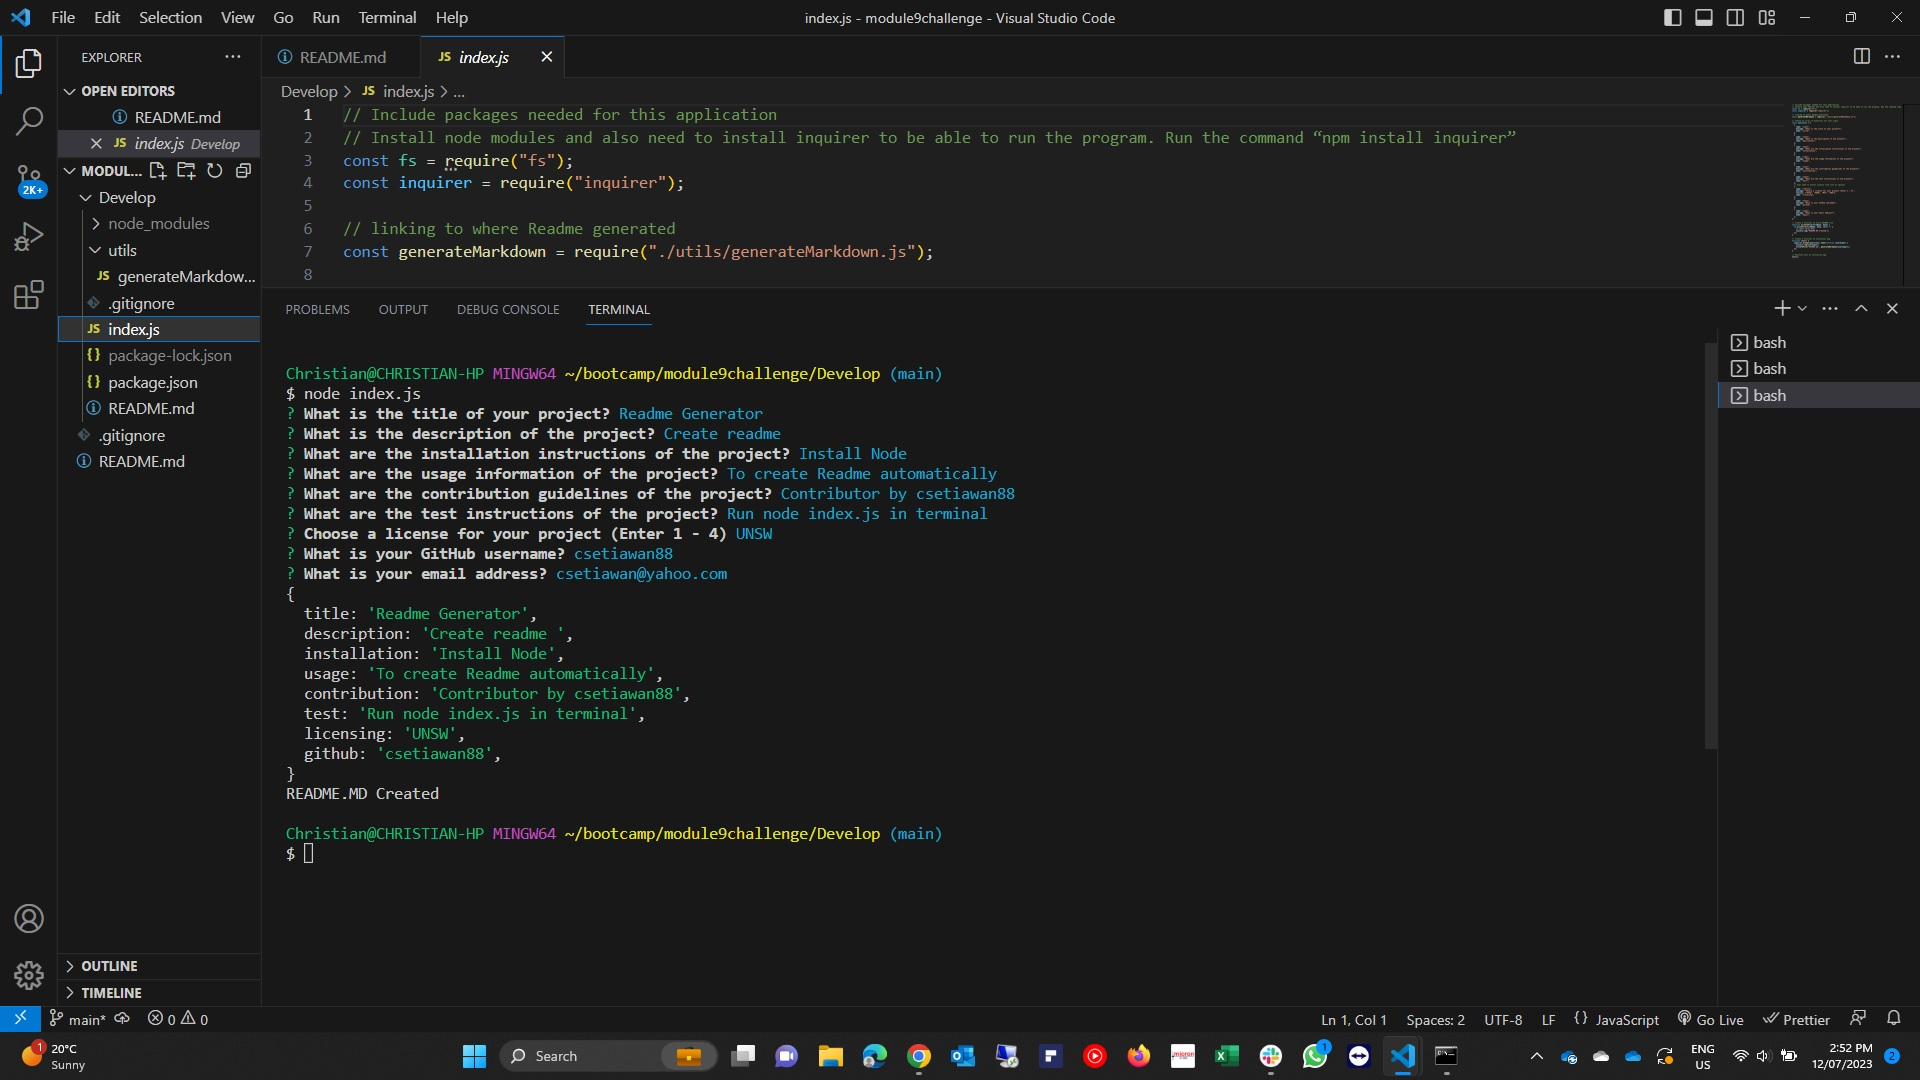
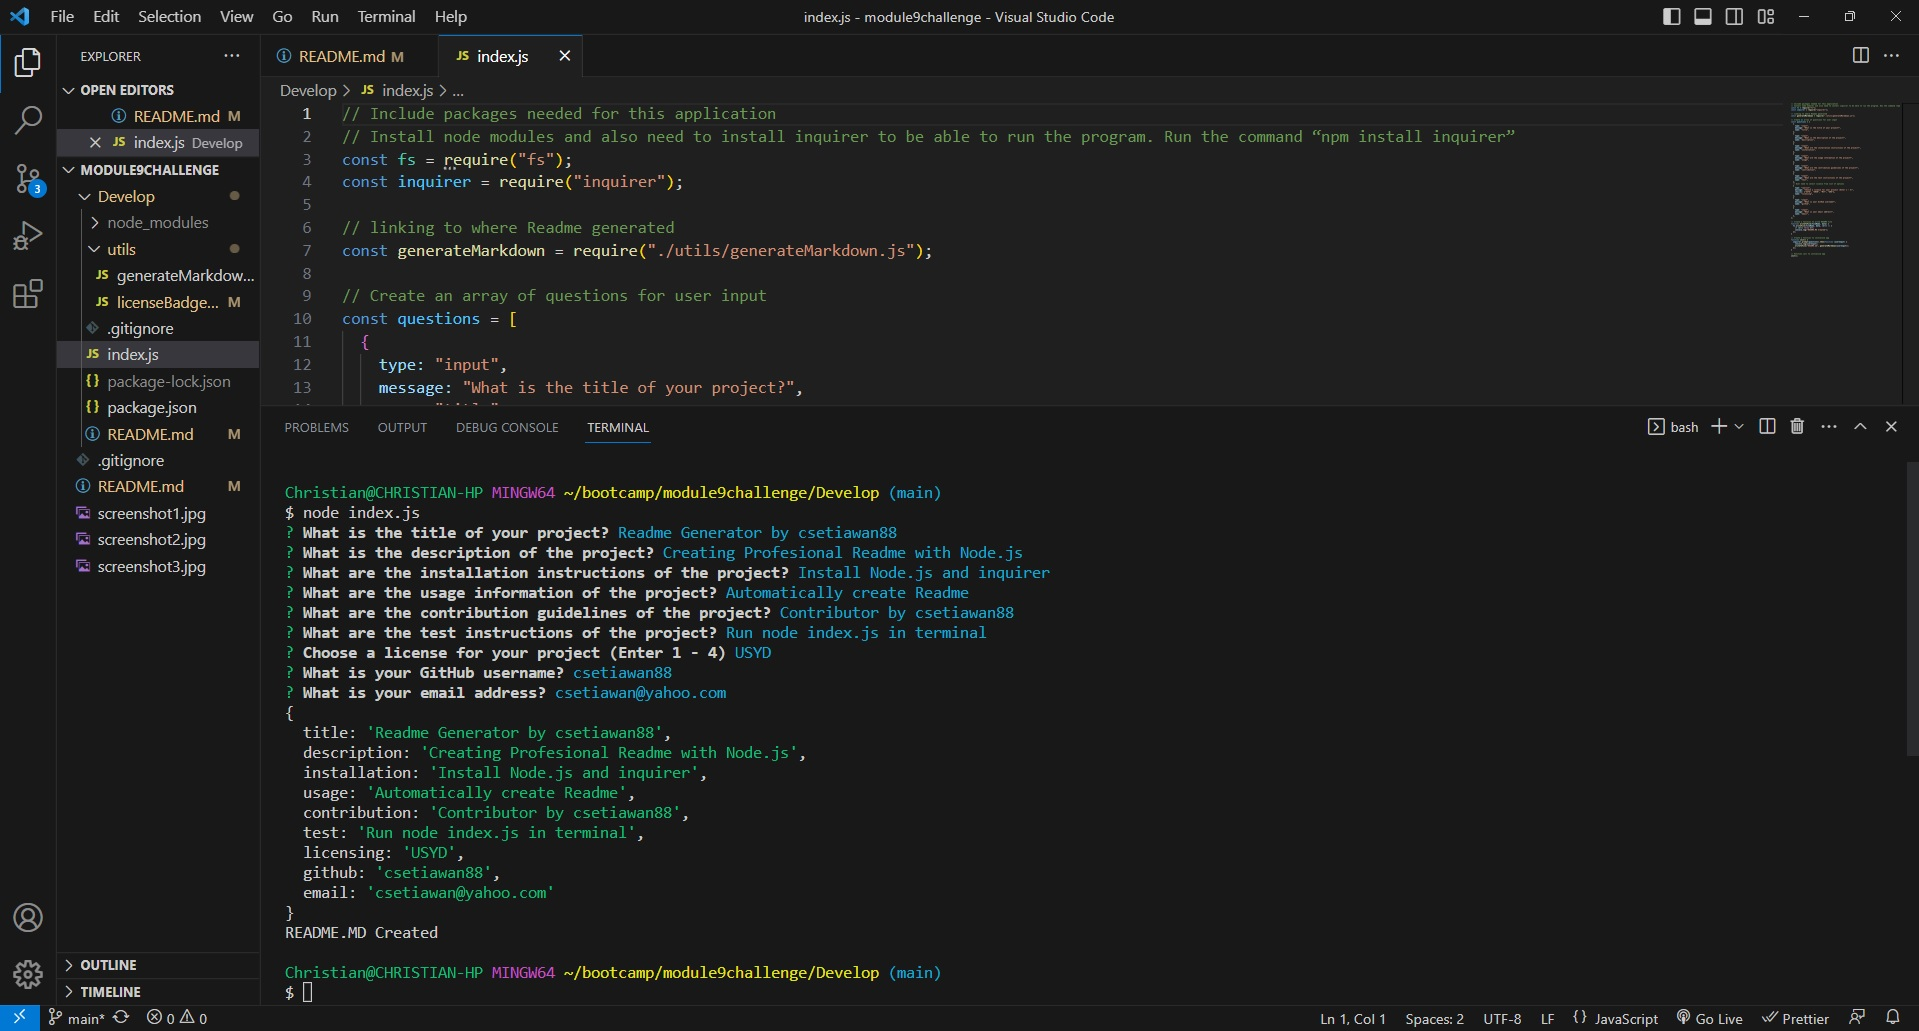
Update Readme with video and screenshot

diff --git a/Develop/utils/licenseBadges.js b/Develop/utils/licenseBadges.js
@@ -1,4 +1,4 @@
-// Links to license badge images
+// Links to license badge images nad URL
 const licenseBadgeLinks = {
   MIT: "[![License: MIT](https://img.shields.io/badge/license-MIT-blue)](https://tlo.mit.edu/learn-about-intellectual-property/software-and-open-source-licensing/open-source-licensing)",
 

diff --git a/Develop/README.md b/Develop/README.md
@@ -1,4 +1,4 @@
-# dag
+# Readme Generator by csetiawan88
 
   [![License: USYD](https://img.shields.io/badge/license-USYD-green)](https://www.sydney.edu.au/engage/industry-business-partnerships/license-our-intellectual-property.html)
   
@@ -12,23 +12,23 @@
   * [Questions](#Questions)
 
   ## Description 
-  gfsdgfsd
+  Creating Profesional Readme with Node.js
 
   ## Installation 
-  sdfs
+  Install Node.js and inquirer
 
   ## Usage 
-  sadfs
+  Automatically create Readme
 
   ## Contributing
-  dfs
+  Contributor by csetiawan88
 
   ## Tests
-  dsfa
+  Run node index.js in terminal
 
   ## License 
   USYD
 
   ## Questions (How to reach me with additional questions)
-  GitHub: https://github.com/fda.
-  Email: fda. 
+  GitHub: https://github.com/csetiawan88.
+  Email: csetiawan@yahoo.com. 

diff --git a/README.md b/README.md
@@ -42,9 +42,9 @@ SO THAT I can quickly create a professional README for a new project
 
 Video created with Screencastify.
 
-Video Link demonstration: https://drive.google.com/file/d/1WSxXLXnMa78q-QFI5B9GEgUHjIuXRTFR/view
+Video Link demonstration: https://drive.google.com/file/d/1Byh17YQ6pgvpeanMHNKNM1XKXPR42Chy/view
 
-Video link to show the functioning Table of Contents: https://drive.google.com/file/d/1wvWMHzt1jwm1Y70pZLzvcK_paMF1vmgg/view
+Video link to show the functioning Table of Contents:
 
 ## Screenshot
 
